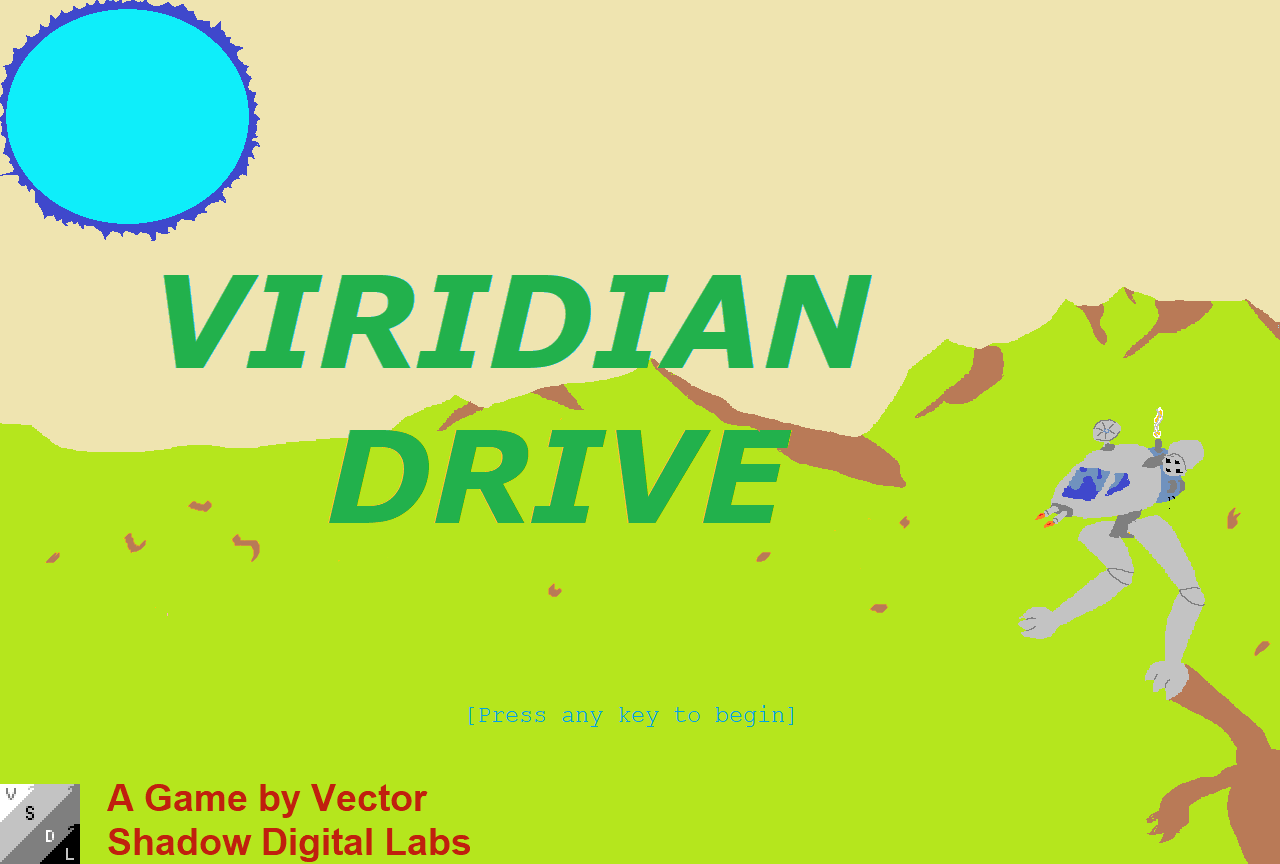
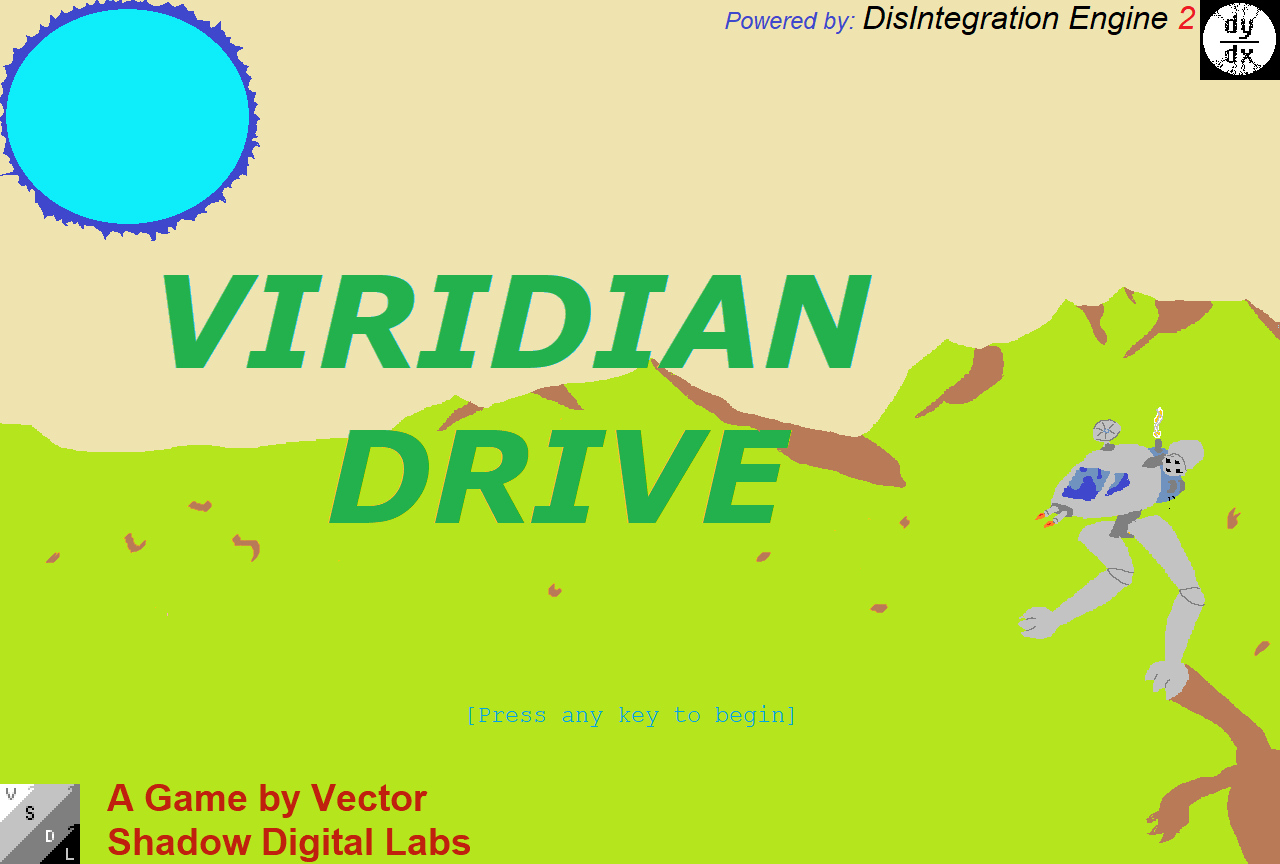
Updated SplashScreen art.
Added dydx2 module.

Package and class groundwork for later updates.

Changed region(s): [[0.5625, 0.0, 1.0, 0.0938]]

diff --git a/src/backend/RemoteDriver.java b/src/backend/RemoteDriver.java
@@ -1,0 +1,20 @@
+package backend;
+
+import link.BackendDataHandler;
+import main.Engine;
+import main.LogHub;
+import main.Server;
+
+import java.io.IOException;
+
+public class RemoteDriver {
+    public static void main(String[] args) {
+        try {
+            Server server = new Server(new BackendDataHandler(), 29387);
+            server.start();
+            Engine engine; //todo - more here, probably
+        } catch (IOException e) {
+            LogHub.logFatalCrash("IOException during server operation.", e);
+        }
+    }
+}

diff --git a/src/frontend/LocalDriver.java b/src/frontend/LocalDriver.java
@@ -1,6 +1,6 @@
 package frontend;
 
-public class Driver {
+public class LocalDriver {
     public static void main(String[] args) {
         GuiManager.launchGui();
         GuiManager.getGui().update();
